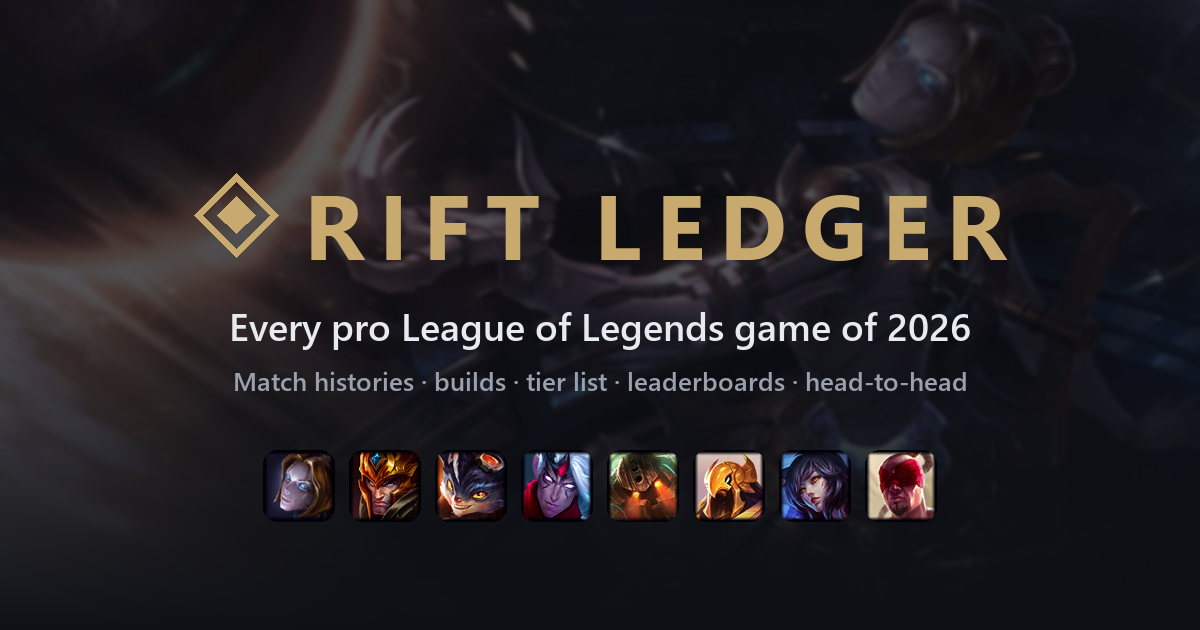
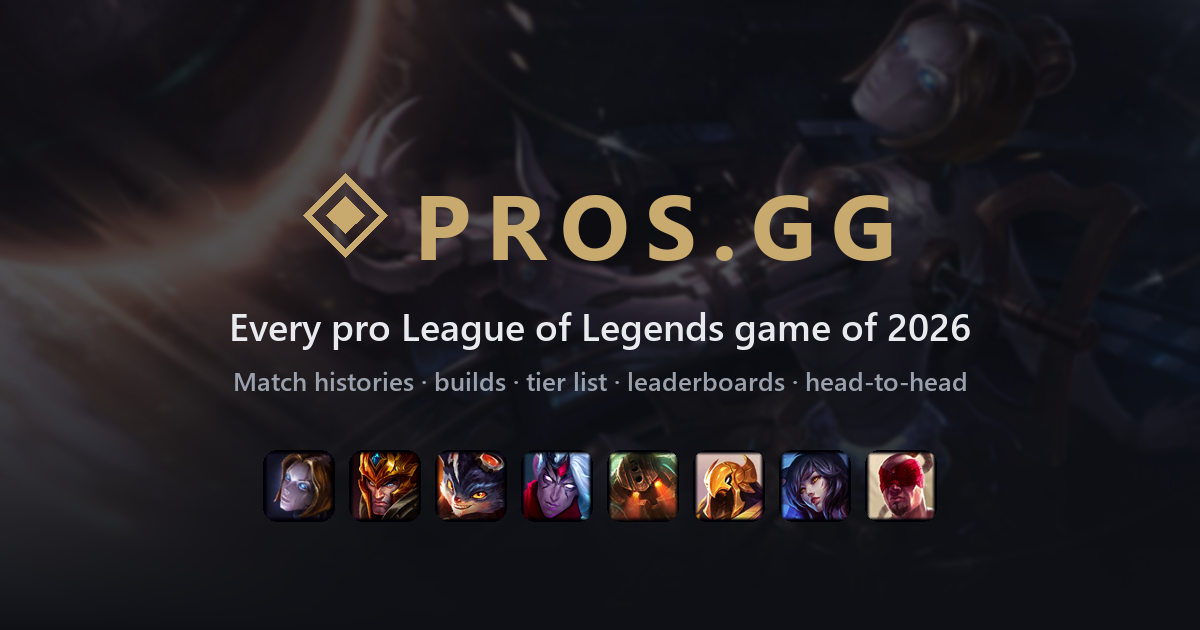
Rename site to pros.gg

Changed region(s): [[0.1542, 0.2714, 0.8325, 0.4222]]

diff --git a/src/app.html b/src/app.html
@@ -3,14 +3,14 @@
 <head>
 <meta charset="utf-8">
 <meta name="viewport" content="width=device-width, initial-scale=1">
-<title>Rift Ledger</title>
+<title>pros.gg</title>
 <meta name="description" content="Every 2026 pro League of Legends game: player match histories, champion pools, builds, team records and tournament stats.">
 <link rel="icon" href="favicon.svg" type="image/svg+xml">
 <meta name="theme-color" content="#0e1015">
 <!-- link previews (Discord, X, iMessage...). Hash routes can't have per-page tags, so every link shares these. -->
 <meta property="og:type" content="website">
-<meta property="og:site_name" content="Rift Ledger">
-<meta property="og:title" content="Rift Ledger · every pro League of Legends game of 2026">
+<meta property="og:site_name" content="pros.gg">
+<meta property="og:title" content="pros.gg · every pro League of Legends game of 2026">
 <meta property="og:description" content="op.gg for pro play: match histories, champion builds, tier list, leaderboards and head-to-heads for every 2026 pro game.">
 <meta property="og:url" content="https://techreign.github.io/rift-ledger/">
 <meta property="og:image" content="https://techreign.github.io/rift-ledger/og.png">
@@ -330,7 +330,7 @@ footer p { margin: 4px 0; }
 </head>
 <body>
 <header><div class="wrap bar">
-  <a class="logo" href="#/"><i></i><span>RIFT LEDGER</span></a>
+  <a class="logo" href="#/"><i></i><span>PROS.GG</span></a>
   <nav class="main">
     <a href="#/champions" data-r="champions">Tier list</a><a href="#/players" data-r="players">Players</a><a href="#/leaderboard" data-r="leaderboard">Leaderboards</a>
     <a href="#/teams" data-r="teams">Teams</a><a href="#/tournaments" data-r="tournaments">Tournaments</a><a href="#/compare" data-r="compare">Multi-search</a>
@@ -344,8 +344,8 @@ footer p { margin: 4px 0; }
 </div></header>
 <main><div class="wrap" id="app"><div class="loading">Loading every pro game of 2026…</div></div></main>
 <footer><div class="wrap">
-  <p>Rift Ledger is a free fan project. Game data from <a href="https://gol.gg" target="_blank" rel="noopener">Games of Legends (gol.gg)</a>; images from Riot's Data Dragon.</p>
-  <p>Rift Ledger isn't endorsed by Riot Games and doesn't reflect the views or opinions of Riot Games or anyone officially involved in producing or managing Riot Games properties. Riot Games, and all associated properties are trademarks or registered trademarks of Riot Games, Inc.</p>
+  <p>pros.gg is a free fan project. Game data from <a href="https://gol.gg" target="_blank" rel="noopener">Games of Legends (gol.gg)</a>; images from Riot's Data Dragon.</p>
+  <p>pros.gg isn't endorsed by Riot Games and doesn't reflect the views or opinions of Riot Games or anyone officially involved in producing or managing Riot Games properties. Riot Games, and all associated properties are trademarks or registered trademarks of Riot Games, Inc.</p>
   <p id="built"></p>
 </div></footer>
 <script>
@@ -511,7 +511,7 @@ async function home() {
     .filter((c) => c.p + c.b).sort((a, b) => b.pr - a.pr).slice(0, 12);
   const pl = S.idx.players.map((p) => ({ p, s: S.scope ? sumBy(p.by) : sumMajor(p.by) })).filter((x) => x.s[0] >= Math.min(15, Math.max(5, ng / 120))).sort((a, b) => kdaR(b.s[2], b.s[3], b.s[4]) - kdaR(a.s[2], a.s[3], a.s[4])).slice(0, 10);
   const lgs = {}; for (const t of S.idx.tours) lgs[t.lg] = (lgs[t.lg] || 0) + t.g;
-  page(`<section class="landing" style="--splash:url('${DD}img/champion/splash/${champs[0]?.c || "Azir"}_0.jpg')"><div class="bg"></div><div class="biglogo"><i></i>RIFT LEDGER</div>
+  page(`<section class="landing" style="--splash:url('${DD}img/champion/splash/${champs[0]?.c || "Azir"}_0.jpg')"><div class="bg"></div><div class="biglogo"><i></i>PROS.GG</div>
     <div class="tag">Every pro League of Legends game of 2026 — match histories, builds and stats.</div>
     <div class="bigsearch search"><div class="lg"><label for="hscope">Region</label><select id="hscope">${$("#scope").innerHTML.replace(">All of 2026<", ">All<")}</select></div><span class="div"></span>
       <div class="q"><label for="hq">Search</label><input id="hq" placeholder="Pro player, team or champion" autocomplete="off"></div>
@@ -1122,13 +1122,13 @@ async function route() {
     else if (p === "tournaments") toursPage();
     else if (!p) await home();
     else notFound("page");
-    const name = $("h1")?.textContent; document.title = name && p ? `${name} · Rift Ledger` : "Rift Ledger · every pro game of 2026";
+    const name = $("h1")?.textContent; document.title = name && p ? `${name} · pros.gg` : "pros.gg · every pro game of 2026";
   } catch (e) {
     console.error(e);
     const kind = { player: "player", team: "team", champion: "champion", game: "game", t: "tournament", h2h: "player" }[parts[0]];
     if (/ 404$/.test(e.message) && kind) notFound(kind);
     else page(`<div class="nf"><h1>Something went wrong</h1><p class="muted">This page didn't load. Check your connection and try again.</p><p><button class="go" onclick="route()">Try again</button> <a class="star" href="#/">Home</a></p></div>`);
-    document.title = "Rift Ledger";
+    document.title = "pros.gg";
   }
 }
 // friendly 404: old links, typos, players who changed IDs

diff --git a/pipeline/og.py b/pipeline/og.py
@@ -9,7 +9,7 @@ from PIL import Image, ImageDraw, ImageFilter, ImageFont
 
 ROOT = Path(__file__).resolve().parent.parent
 OUT = ROOT / "static"
-NAME, TAG = "RIFT LEDGER", "Every pro League of Legends game of 2026"
+NAME, TAG = "PROS.GG", "Every pro League of Legends game of 2026"
 SUB = "Match histories · builds · tier list · leaderboards · head-to-head"
 GOLD, BG = (200, 170, 110), (14, 16, 21)
 CHAMPS = ["Orianna", "JarvanIV", "Rumble", "Varus", "Nautilus", "Azir", "Ahri", "LeeSin"]

diff --git a/README.md b/README.md
@@ -1,4 +1,4 @@
-# Rift Ledger
+# pros.gg
 
 Every 2026 pro League of Legends game in one op.gg-style site: player match histories (filters, last-20 summary, form
 graph, played-with, lane opponents), champion pages (builds, skill order, full runes, counters, synergy), a tier list by
@@ -26,6 +26,6 @@ responding. Team logos and player photos are hotlinked from the lolesports API.
 
 ## Credits
 
-Game data from [Games of Legends (gol.gg)](https://gol.gg); images from Riot's Data Dragon. Rift Ledger isn't endorsed
+Game data from [Games of Legends (gol.gg)](https://gol.gg); images from Riot's Data Dragon. pros.gg isn't endorsed
 by Riot Games and doesn't reflect the views or opinions of Riot Games or anyone officially involved in producing or
 managing Riot Games properties.
